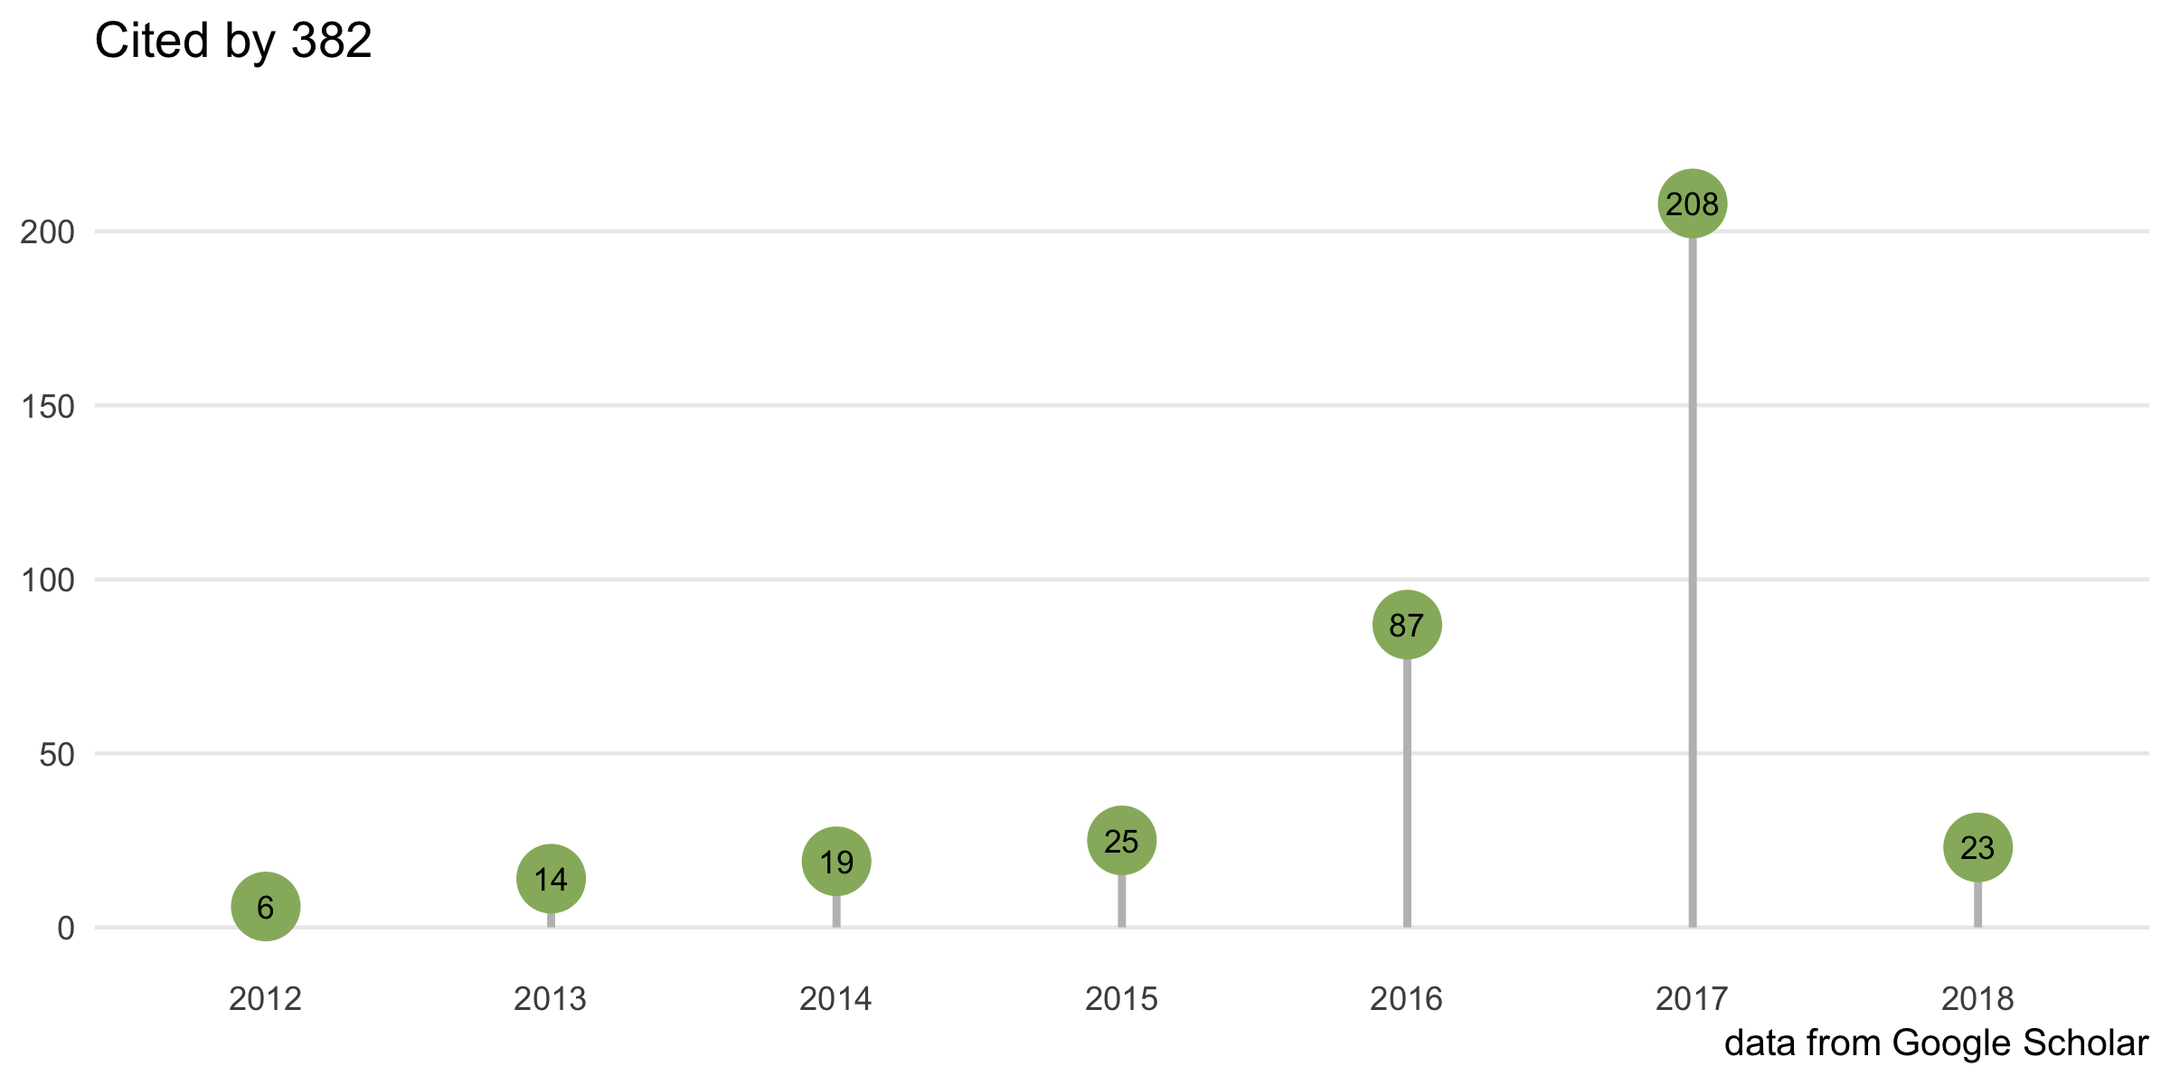
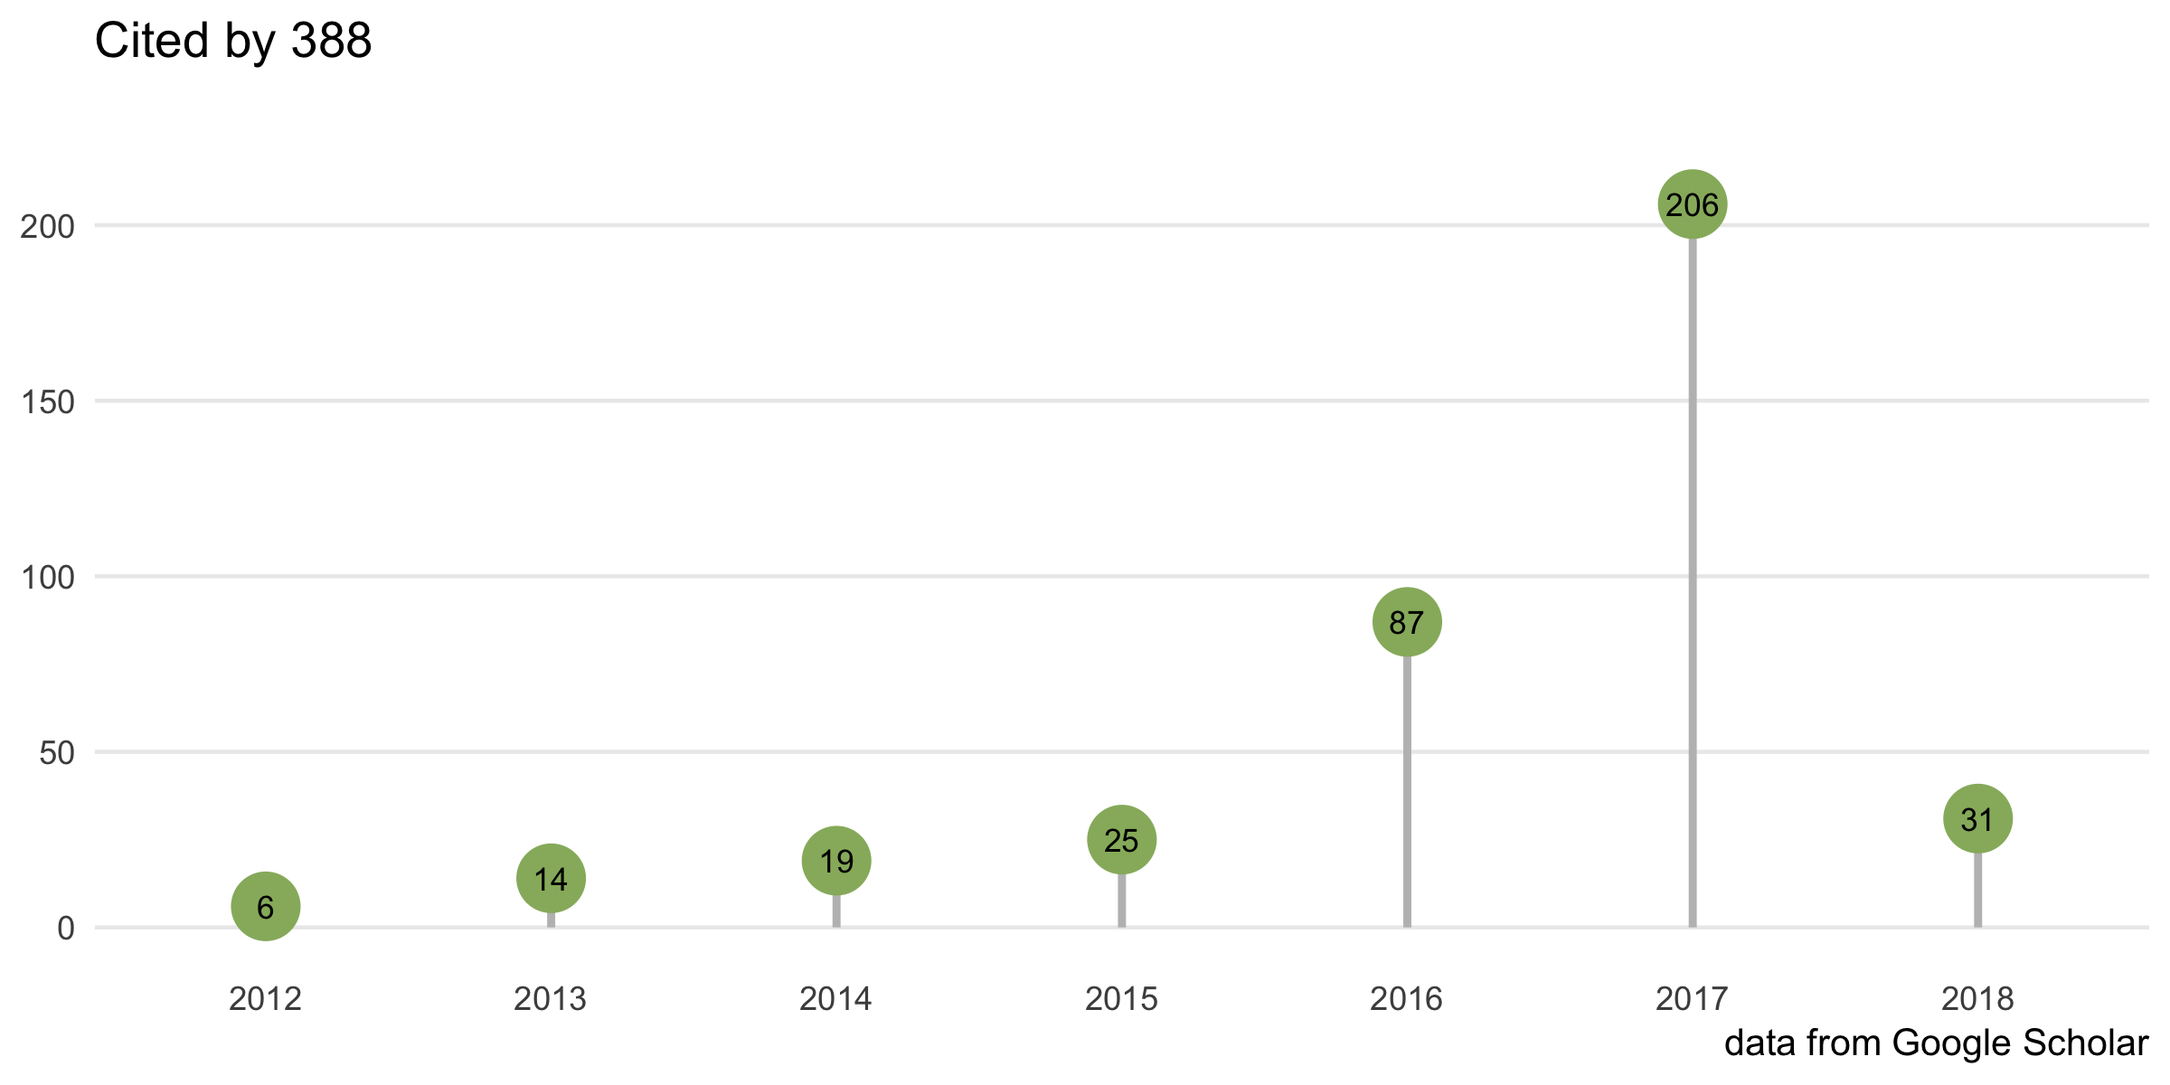
uniprot_get

diff --git a/docs/index.html b/docs/index.html
@@ -288,7 +288,7 @@
 
 			<p><img src="https://raw.githubusercontent.com/Bioconductor/BiocStickers/master/clusterProfiler/clusterProfiler.png" height="200" align="right" /></p>
 <p><link rel="stylesheet" href="https://guangchuangyu.github.io/css/font-awesome.min.css"></p>
-<p><a href="https://bioconductor.org/packages/clusterProfiler"><img src="https://img.shields.io/badge/release%20version-3.6.0-blue.svg?style=flat" alt="releaseVersion" /></a> <a href="https://github.com/guangchuangyu/clusterProfiler"><img src="https://img.shields.io/badge/devel%20version-3.7.0-blue.svg?style=flat" alt="develVersion" /></a> <a href="https://bioconductor.org/packages/stats/bioc/clusterProfiler"><img src="https://img.shields.io/badge/downloads-57788/total-blue.svg?style=flat" alt="total" /></a> <a href="https://bioconductor.org/packages/stats/bioc/clusterProfiler"><img src="https://img.shields.io/badge/downloads-2047/month-blue.svg?style=flat" alt="month" /></a></p>
+<p><a href="https://bioconductor.org/packages/clusterProfiler"><img src="https://img.shields.io/badge/release%20version-3.6.0-blue.svg?style=flat" alt="releaseVersion" /></a> <a href="https://github.com/guangchuangyu/clusterProfiler"><img src="https://img.shields.io/badge/devel%20version-3.7.1-blue.svg?style=flat" alt="develVersion" /></a> <a href="https://bioconductor.org/packages/stats/bioc/clusterProfiler"><img src="https://img.shields.io/badge/downloads-58554/total-blue.svg?style=flat" alt="total" /></a> <a href="https://bioconductor.org/packages/stats/bioc/clusterProfiler"><img src="https://img.shields.io/badge/downloads-2047/month-blue.svg?style=flat" alt="month" /></a></p>
 <p>The <a href="https://bioconductor.org/packages/clusterProfiler/">clusterProfiler</a> package implements methods to analyze and visualize functional profiles of genomic coordinates (supported by ChIPseeker), gene and gene clusters.</p>
 <p><a href="https://bioconductor.org/packages/clusterProfiler/">clusterProfiler</a> is released within the <a href="https://bioconductor.org/packages/clusterProfiler">Bioconductor</a> project and the source code is hosted on <a href="https://github.com/GuangchuangYu/clusterProfiler"><i class="fa fa-github fa-lg"></i> GitHub</a>.</p>
 <div id="author" class="section level2">
@@ -298,7 +298,7 @@
 <div id="citation" class="section level2">
 <h2><i class="fa fa-book"></i> Citation</h2>
 <p>Please cite the following article when using <a href="https://bioconductor.org/packages/clusterProfiler/">clusterProfiler</a>:</p>
-<p><a href="http://dx.doi.org/10.1089/omi.2011.0118"><img src="https://img.shields.io/badge/doi-10.1089/omi.2011.0118-blue.svg?style=flat" alt="doi" /></a> <a href="https://www.altmetric.com/details/681089"><img src="https://img.shields.io/badge/Altmetric-23-blue.svg?style=flat" alt="Altmetric" /></a> <a href="http://online.liebertpub.com/action/showMostCitedArticles?journalCode=omi"><img src="https://img.shields.io/badge/2nd%20most%20cited%20paper-in%20OMICS-blue.svg?style=flat" /></a> <a href="https://scholar.google.com.hk/scholar?oi=bibs&amp;hl=en&amp;cites=2349076811020942117"><img src="https://img.shields.io/badge/cited%20by-378-blue.svg?style=flat" alt="citation" /></a> <img src="https://img.shields.io/badge/ESI-Highly%20Cited%20Paper-blue.svg?style=flat" /></p>
+<p><a href="http://dx.doi.org/10.1089/omi.2011.0118"><img src="https://img.shields.io/badge/doi-10.1089/omi.2011.0118-blue.svg?style=flat" alt="doi" /></a> <a href="https://www.altmetric.com/details/681089"><img src="https://img.shields.io/badge/Altmetric-23-blue.svg?style=flat" alt="Altmetric" /></a> <a href="http://online.liebertpub.com/action/showMostCitedArticles?journalCode=omi"><img src="https://img.shields.io/badge/2nd%20most%20cited%20paper-in%20OMICS-blue.svg?style=flat" /></a> <a href="https://scholar.google.com.hk/scholar?oi=bibs&amp;hl=en&amp;cites=2349076811020942117"><img src="https://img.shields.io/badge/cited%20by-388-blue.svg?style=flat" alt="citation" /></a> <img src="https://img.shields.io/badge/ESI-Highly%20Cited%20Paper-blue.svg?style=flat" /></p>
 <p><strong>Yu G</strong>, Wang L, Han Y and He Q<sup>*</sup>. clusterProfiler: an R package for comparing biological themes among gene clusters. <strong><em>OMICS: A Journal of Integrative Biology</em></strong>. 2012, 16(5):284-287.</p>
 </div>
 <div id="featured-articles" class="section level2">
@@ -411,6 +411,7 @@ biocLite(&quot;clusterProfiler&quot;)</code></pre>
 <li><a href="https://www.bioconductor.org/packages/debrowser">debrowser</a>: Interactive Differential Expresion Analysis Browser</li>
 <li><a href="https://www.bioconductor.org/packages/eegc">eegc</a>: Engineering Evaluation by Gene Categorization (eegc)</li>
 <li><a href="https://www.bioconductor.org/packages/esATAC">esATAC</a>: An Easy-to-use Systematic pipeline for ATACseq data analysis</li>
+<li><a href="https://www.bioconductor.org/packages/GDCRNATools">GDCRNATools</a>: an R/Bioconductor package for integrative analysis of lncRNA, mRNA, and miRNA data in GDC</li>
 <li><a href="https://www.bioconductor.org/packages/LINC">LINC</a>: co-expression of lincRNAs and protein-coding genes</li>
 <li><a href="https://www.bioconductor.org/packages/miRsponge">miRsponge</a>: Identification and analysis of miRNA sponge interaction networks and modules</li>
 <li><a href="https://www.bioconductor.org/packages/MoonlightR">MoonlightR</a>: Identify oncogenes and tumor suppressor genes from omics data</li>
@@ -583,6 +584,11 @@ biocLite(&quot;clusterProfiler&quot;)</code></pre>
     
 
     <script src="//cdnjs.cloudflare.com/ajax/libs/highlight.js/9.8.0/highlight.min.js"></script>
+    <script>hljs.initHighlightingOnLoad();</script>
+  </body>
+</html>
+
+ighlight.min.js"></script>
     <script>hljs.initHighlightingOnLoad();</script>
   </body>
 </html>

diff --git a/site_src/content/index.html b/site_src/content/index.html
@@ -9,7 +9,7 @@ weight: 1
 
 <p><img src="https://raw.githubusercontent.com/Bioconductor/BiocStickers/master/clusterProfiler/clusterProfiler.png" height="200" align="right" /></p>
 <p><link rel="stylesheet" href="https://guangchuangyu.github.io/css/font-awesome.min.css"></p>
-<p><a href="https://bioconductor.org/packages/clusterProfiler"><img src="https://img.shields.io/badge/release%20version-3.6.0-blue.svg?style=flat" alt="releaseVersion" /></a> <a href="https://github.com/guangchuangyu/clusterProfiler"><img src="https://img.shields.io/badge/devel%20version-3.7.0-blue.svg?style=flat" alt="develVersion" /></a> <a href="https://bioconductor.org/packages/stats/bioc/clusterProfiler"><img src="https://img.shields.io/badge/downloads-57788/total-blue.svg?style=flat" alt="total" /></a> <a href="https://bioconductor.org/packages/stats/bioc/clusterProfiler"><img src="https://img.shields.io/badge/downloads-2047/month-blue.svg?style=flat" alt="month" /></a></p>
+<p><a href="https://bioconductor.org/packages/clusterProfiler"><img src="https://img.shields.io/badge/release%20version-3.6.0-blue.svg?style=flat" alt="releaseVersion" /></a> <a href="https://github.com/guangchuangyu/clusterProfiler"><img src="https://img.shields.io/badge/devel%20version-3.7.1-blue.svg?style=flat" alt="develVersion" /></a> <a href="https://bioconductor.org/packages/stats/bioc/clusterProfiler"><img src="https://img.shields.io/badge/downloads-58554/total-blue.svg?style=flat" alt="total" /></a> <a href="https://bioconductor.org/packages/stats/bioc/clusterProfiler"><img src="https://img.shields.io/badge/downloads-2047/month-blue.svg?style=flat" alt="month" /></a></p>
 <p>The <a href="https://bioconductor.org/packages/clusterProfiler/">clusterProfiler</a> package implements methods to analyze and visualize functional profiles of genomic coordinates (supported by ChIPseeker), gene and gene clusters.</p>
 <p><a href="https://bioconductor.org/packages/clusterProfiler/">clusterProfiler</a> is released within the <a href="https://bioconductor.org/packages/clusterProfiler">Bioconductor</a> project and the source code is hosted on <a href="https://github.com/GuangchuangYu/clusterProfiler"><i class="fa fa-github fa-lg"></i> GitHub</a>.</p>
 <div id="author" class="section level2">
@@ -19,7 +19,7 @@ weight: 1
 <div id="citation" class="section level2">
 <h2><i class="fa fa-book"></i> Citation</h2>
 <p>Please cite the following article when using <a href="https://bioconductor.org/packages/clusterProfiler/">clusterProfiler</a>:</p>
-<p><a href="http://dx.doi.org/10.1089/omi.2011.0118"><img src="https://img.shields.io/badge/doi-10.1089/omi.2011.0118-blue.svg?style=flat" alt="doi" /></a> <a href="https://www.altmetric.com/details/681089"><img src="https://img.shields.io/badge/Altmetric-23-blue.svg?style=flat" alt="Altmetric" /></a> <a href="http://online.liebertpub.com/action/showMostCitedArticles?journalCode=omi"><img src="https://img.shields.io/badge/2nd%20most%20cited%20paper-in%20OMICS-blue.svg?style=flat" /></a> <a href="https://scholar.google.com.hk/scholar?oi=bibs&amp;hl=en&amp;cites=2349076811020942117"><img src="https://img.shields.io/badge/cited%20by-378-blue.svg?style=flat" alt="citation" /></a> <img src="https://img.shields.io/badge/ESI-Highly%20Cited%20Paper-blue.svg?style=flat" /></p>
+<p><a href="http://dx.doi.org/10.1089/omi.2011.0118"><img src="https://img.shields.io/badge/doi-10.1089/omi.2011.0118-blue.svg?style=flat" alt="doi" /></a> <a href="https://www.altmetric.com/details/681089"><img src="https://img.shields.io/badge/Altmetric-23-blue.svg?style=flat" alt="Altmetric" /></a> <a href="http://online.liebertpub.com/action/showMostCitedArticles?journalCode=omi"><img src="https://img.shields.io/badge/2nd%20most%20cited%20paper-in%20OMICS-blue.svg?style=flat" /></a> <a href="https://scholar.google.com.hk/scholar?oi=bibs&amp;hl=en&amp;cites=2349076811020942117"><img src="https://img.shields.io/badge/cited%20by-388-blue.svg?style=flat" alt="citation" /></a> <img src="https://img.shields.io/badge/ESI-Highly%20Cited%20Paper-blue.svg?style=flat" /></p>
 <p><strong>Yu G</strong>, Wang L, Han Y and He Q<sup>*</sup>. clusterProfiler: an R package for comparing biological themes among gene clusters. <strong><em>OMICS: A Journal of Integrative Biology</em></strong>. 2012, 16(5):284-287.</p>
 </div>
 <div id="featured-articles" class="section level2">
@@ -132,6 +132,7 @@ biocLite(&quot;clusterProfiler&quot;)</code></pre>
 <li><a href="https://www.bioconductor.org/packages/debrowser">debrowser</a>: Interactive Differential Expresion Analysis Browser</li>
 <li><a href="https://www.bioconductor.org/packages/eegc">eegc</a>: Engineering Evaluation by Gene Categorization (eegc)</li>
 <li><a href="https://www.bioconductor.org/packages/esATAC">esATAC</a>: An Easy-to-use Systematic pipeline for ATACseq data analysis</li>
+<li><a href="https://www.bioconductor.org/packages/GDCRNATools">GDCRNATools</a>: an R/Bioconductor package for integrative analysis of lncRNA, mRNA, and miRNA data in GDC</li>
 <li><a href="https://www.bioconductor.org/packages/LINC">LINC</a>: co-expression of lincRNAs and protein-coding genes</li>
 <li><a href="https://www.bioconductor.org/packages/miRsponge">miRsponge</a>: Identification and analysis of miRNA sponge interaction networks and modules</li>
 <li><a href="https://www.bioconductor.org/packages/MoonlightR">MoonlightR</a>: Identify oncogenes and tumor suppressor genes from omics data</li>

diff --git a/site_src/content/featured-articles/index.html b/site_src/content/featured-articles/index.html
@@ -11,6 +11,7 @@ weight: 20
 <p><img src="../images/citation.png" width="880"/></p>
 <div id="section" class="section level2">
 <h2><i class="fa fa-calendar"></i> 2018</h2>
+<p><a href="https://doi.org/10.1038/s41467-017-02782-9">High-resolution spatiotemporal transcriptome mapping of tomato fruit development and ripening</a>. <strong><em>Nature Communications</em></strong>. 2018, 364.</p>
 <p><a href="https://doi.org/10.1093/nar/gky008">The prolyl isomerase FKBP25 regulates microtubule polymerization impacting cell cycle progression and genomic stability</a>. <strong><em>Nucleic Acids Research</em></strong>. 2018</p>
 <p><a href="https://www.sciencedirect.com/science/article/pii/S0092867417314320">Microbiome Influences Prenatal and Adult Microglia in a Sex-Specific Manner</a>. <strong><em>Cell</em></strong>. 2018.</p>
 <p><a href="http://dx.doi.org/10.1093/bib/bbw139">Gene co-expression analysis for functional classification and gene–disease predictions</a>. <strong><em>Brief Bioinform</em></strong>. 2018.</p>

diff --git a/docs/featured-articles/index.html b/docs/featured-articles/index.html
@@ -294,6 +294,7 @@
 <p><img src="../images/citation.png" width="880"/></p>
 <div id="section" class="section level2">
 <h2><i class="fa fa-calendar"></i> 2018</h2>
+<p><a href="https://doi.org/10.1038/s41467-017-02782-9">High-resolution spatiotemporal transcriptome mapping of tomato fruit development and ripening</a>. <strong><em>Nature Communications</em></strong>. 2018, 364.</p>
 <p><a href="https://doi.org/10.1093/nar/gky008">The prolyl isomerase FKBP25 regulates microtubule polymerization impacting cell cycle progression and genomic stability</a>. <strong><em>Nucleic Acids Research</em></strong>. 2018</p>
 <p><a href="https://www.sciencedirect.com/science/article/pii/S0092867417314320">Microbiome Influences Prenatal and Adult Microglia in a Sex-Specific Manner</a>. <strong><em>Cell</em></strong>. 2018.</p>
 <p><a href="http://dx.doi.org/10.1093/bib/bbw139">Gene co-expression analysis for functional classification and gene–disease predictions</a>. <strong><em>Brief Bioinform</em></strong>. 2018.</p>

diff --git a/README.md b/README.md
@@ -3,9 +3,9 @@ clusterProfiler
 
 <img src="https://raw.githubusercontent.com/Bioconductor/BiocStickers/master/clusterProfiler/clusterProfiler.png" height="200" align="right" />
 
-[![releaseVersion](https://img.shields.io/badge/release%20version-3.6.0-green.svg?style=flat)](https://bioconductor.org/packages/clusterProfiler) [![develVersion](https://img.shields.io/badge/devel%20version-3.7.1-green.svg?style=flat)](https://github.com/guangchuangyu/clusterProfiler) [![Bioc](http://www.bioconductor.org/shields/years-in-bioc/clusterProfiler.svg)](https://www.bioconductor.org/packages/devel/bioc/html/clusterProfiler.html#since) [![total](https://img.shields.io/badge/downloads-58290/total-blue.svg?style=flat)](https://bioconductor.org/packages/stats/bioc/clusterProfiler) [![month](https://img.shields.io/badge/downloads-2047/month-blue.svg?style=flat)](https://bioconductor.org/packages/stats/bioc/clusterProfiler)
+[![releaseVersion](https://img.shields.io/badge/release%20version-3.6.0-green.svg?style=flat)](https://bioconductor.org/packages/clusterProfiler) [![develVersion](https://img.shields.io/badge/devel%20version-3.7.1-green.svg?style=flat)](https://github.com/guangchuangyu/clusterProfiler) [![Bioc](http://www.bioconductor.org/shields/years-in-bioc/clusterProfiler.svg)](https://www.bioconductor.org/packages/devel/bioc/html/clusterProfiler.html#since) [![total](https://img.shields.io/badge/downloads-58554/total-blue.svg?style=flat)](https://bioconductor.org/packages/stats/bioc/clusterProfiler) [![month](https://img.shields.io/badge/downloads-2047/month-blue.svg?style=flat)](https://bioconductor.org/packages/stats/bioc/clusterProfiler)
 
-[![Project Status: Active - The project has reached a stable, usable state and is being actively developed.](http://www.repostatus.org/badges/latest/active.svg)](http://www.repostatus.org/#active) [![codecov](https://codecov.io/gh/GuangchuangYu/clusterProfiler/branch/master/graph/badge.svg)](https://codecov.io/gh/GuangchuangYu/clusterProfiler/) [![Last-changedate](https://img.shields.io/badge/last%20change-2018--01--29-green.svg)](https://github.com/GuangchuangYu/clusterProfiler/commits/master) [![commit](http://www.bioconductor.org/shields/commits/bioc/clusterProfiler.svg)](https://www.bioconductor.org/packages/devel/bioc/html/clusterProfiler.html#svn_source) [![GitHub forks](https://img.shields.io/github/forks/GuangchuangYu/clusterProfiler.svg)](https://github.com/GuangchuangYu/clusterProfiler/network) [![GitHub stars](https://img.shields.io/github/stars/GuangchuangYu/clusterProfiler.svg)](https://github.com/GuangchuangYu/clusterProfiler/stargazers)
+[![Project Status: Active - The project has reached a stable, usable state and is being actively developed.](http://www.repostatus.org/badges/latest/active.svg)](http://www.repostatus.org/#active) [![codecov](https://codecov.io/gh/GuangchuangYu/clusterProfiler/branch/master/graph/badge.svg)](https://codecov.io/gh/GuangchuangYu/clusterProfiler/) [![Last-changedate](https://img.shields.io/badge/last%20change-2018--01--30-green.svg)](https://github.com/GuangchuangYu/clusterProfiler/commits/master) [![commit](http://www.bioconductor.org/shields/commits/bioc/clusterProfiler.svg)](https://www.bioconductor.org/packages/devel/bioc/html/clusterProfiler.html#svn_source) [![GitHub forks](https://img.shields.io/github/forks/GuangchuangYu/clusterProfiler.svg)](https://github.com/GuangchuangYu/clusterProfiler/network) [![GitHub stars](https://img.shields.io/github/stars/GuangchuangYu/clusterProfiler.svg)](https://github.com/GuangchuangYu/clusterProfiler/stargazers)
 
 [![platform](http://www.bioconductor.org/shields/availability/devel/clusterProfiler.svg)](https://www.bioconductor.org/packages/devel/bioc/html/clusterProfiler.html#archives) [![Build Status](http://www.bioconductor.org/shields/build/devel/bioc/clusterProfiler.svg)](https://bioconductor.org/checkResults/devel/bioc-LATEST/clusterProfiler/) [![Linux/Mac Travis Build Status](https://img.shields.io/travis/GuangchuangYu/clusterProfiler/master.svg?label=Mac%20OSX%20%26%20Linux)](https://travis-ci.org/GuangchuangYu/clusterProfiler) [![AppVeyor Build Status](https://img.shields.io/appveyor/ci/Guangchuangyu/clusterProfiler/master.svg?label=Windows)](https://ci.appveyor.com/project/GuangchuangYu/clusterProfiler)
 
@@ -31,12 +31,12 @@ Please cite the following article when using `clusterProfiler`:
 
 ### Citation
 
-[![](https://img.shields.io/badge/2nd%20most%20cited%20paper-in%20OMICS-green.svg?style=flat)](http://online.liebertpub.com/action/showMostCitedArticles?journalCode=omi) [![citation](https://img.shields.io/badge/cited%20by-382-green.svg?style=flat)](https://scholar.google.com.hk/scholar?oi=bibs&hl=en&cites=2349076811020942117) ![](https://img.shields.io/badge/ESI-Highly%20Cited%20Paper-green.svg?style=flat)
+[![](https://img.shields.io/badge/2nd%20most%20cited%20paper-in%20OMICS-green.svg?style=flat)](http://online.liebertpub.com/action/showMostCitedArticles?journalCode=omi) [![citation](https://img.shields.io/badge/cited%20by-388-green.svg?style=flat)](https://scholar.google.com.hk/scholar?oi=bibs&hl=en&cites=2349076811020942117) ![](https://img.shields.io/badge/ESI-Highly%20Cited%20Paper-green.svg?style=flat)
 
 <img src="docs/images/citation.png" width="890"/>
 
 ### Download stats
 
-[![download](http://www.bioconductor.org/shields/downloads/clusterProfiler.svg)](https://bioconductor.org/packages/stats/bioc/clusterProfiler) [![total](https://img.shields.io/badge/downloads-58290/total-blue.svg?style=flat)](https://bioconductor.org/packages/stats/bioc/clusterProfiler) [![month](https://img.shields.io/badge/downloads-2047/month-blue.svg?style=flat)](https://bioconductor.org/packages/stats/bioc/clusterProfiler)
+[![download](http://www.bioconductor.org/shields/downloads/clusterProfiler.svg)](https://bioconductor.org/packages/stats/bioc/clusterProfiler) [![total](https://img.shields.io/badge/downloads-58554/total-blue.svg?style=flat)](https://bioconductor.org/packages/stats/bioc/clusterProfiler) [![month](https://img.shields.io/badge/downloads-2047/month-blue.svg?style=flat)](https://bioconductor.org/packages/stats/bioc/clusterProfiler)
 
 <img src="docs/images/dlstats.png" width="890"/>

diff --git a/NEWS.md b/NEWS.md
@@ -1,0 +1,4 @@
+# clusterProfiler 3.7.1
+
++ uniprot_get function (2018-01-30, Tue)
++ import enrichplot (2018-01-29, Mon)
